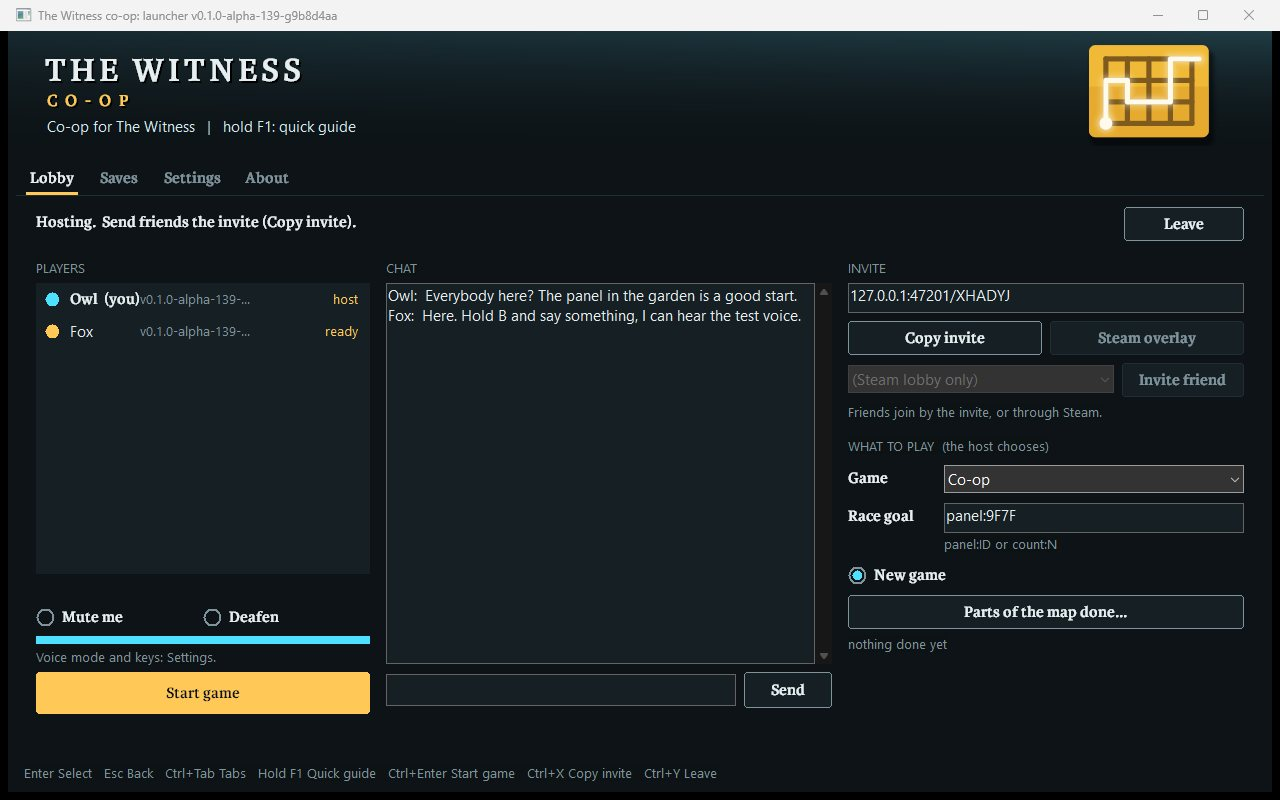
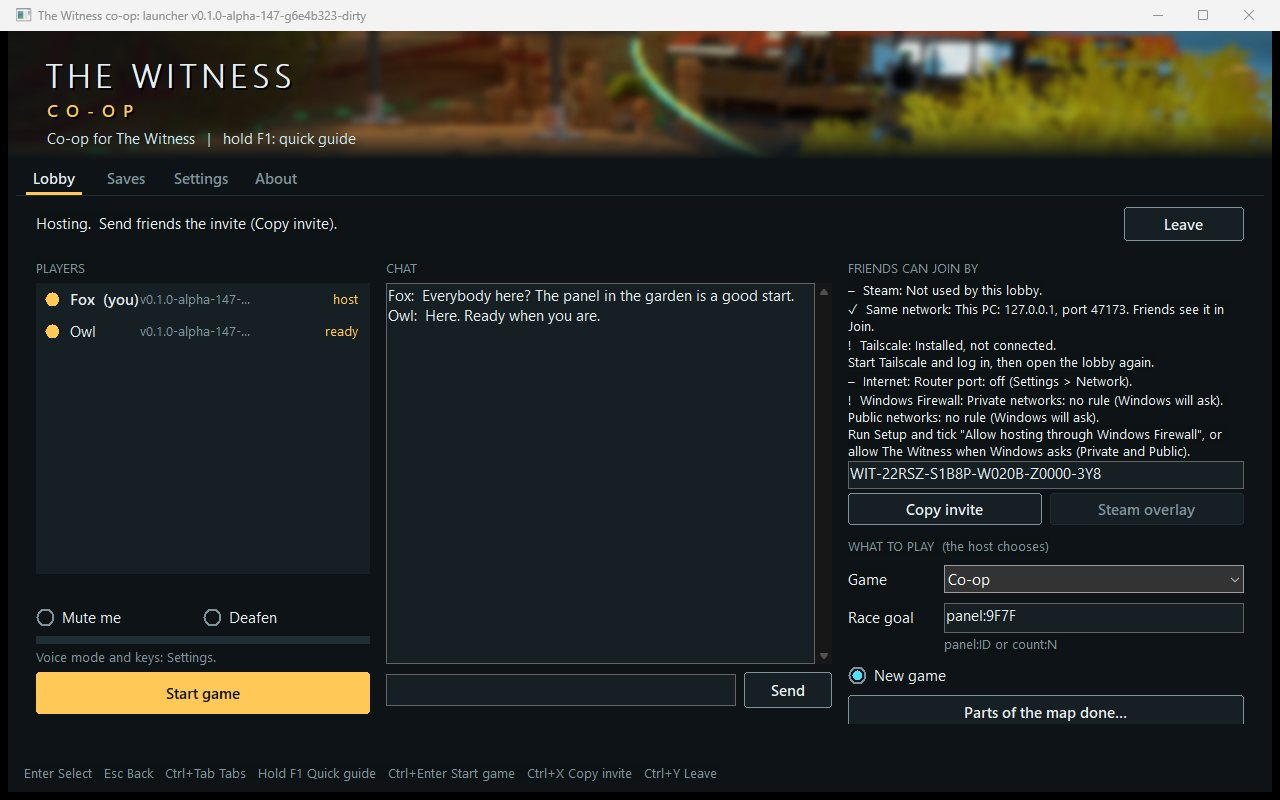
Friends reach this PC at also sets the panel's address and the invite's only route; compact panel rows (mark, result, the fix under a warning); qa.sh join pictures: launcher_join.jpg (new) and launcher_lobby.jpg recaptured with 127.0.0.1

diff --git a/launcher/main.cpp b/launcher/main.cpp
@@ -477,12 +477,14 @@ nf_settings NetSettings();
 // ---- C: hosting. "Friends can join by" (netfind.c's checks), the invite (joinglue.h MakeInvite)
 void HostChecksOpen(unsigned lobbyPort, unsigned gamePort, bool steam) {
     char exe[MAX_PATH] = {}; GetModuleFileNameA(nullptr, exe, MAX_PATH); std::wstring g = g_dir + L"\\witness64_d3d11.exe"; std::string game = U(g);
-    nf_settings s = NetSettings(); nf_host_open(lobbyPort, gamePort, steam ? 1 : 0, g_sess.InviteOnly() ? 1 : 0, &s, exe, game.c_str());
+    nf_settings s = NetSettings(); std::string adv = CfgGet("lobby_advertise"); uint32_t advIp = adv.empty() ? 0 : lw::Session::Resolve(adv);
+    nf_host_open(lobbyPort, gamePort, steam ? 1 : 0, g_sess.InviteOnly() ? 1 : 0, &s, exe, game.c_str(), advIp);
 }
 bool HostInvite(std::string* code, std::string* msg) {
     jg::InviteIn in; in.name = CfgGet("name", "Player"); in.secret = g_sess.Secret(); in.inviteOnly = g_sess.InviteOnly(); lh_addr lan[8]; int nlan = 0, ok = 0;
     if (g_sess.SteamMode()) { in.steamLobby = g_sess.SteamLobbyId(); in.port = NetSettings().port ? NetSettings().port : LJ_DEFAULT_PORT; if (!in.steamLobby) return false; }
-    else { nf_host_routes(lan, 8, &nlan, &in.tailscaleIp, &in.internetIp, &ok); in.lan = lan; in.nlan = nlan; in.internetOk = ok != 0; in.port = g_sess.LobbyPort(); }
+    else { nf_host_routes(lan, 8, &nlan, &in.tailscaleIp, &in.internetIp, &ok); in.lan = lan; in.nlan = nlan; in.internetOk = ok != 0; in.port = g_sess.LobbyPort();
+           std::string adv = CfgGet("lobby_advertise"); if (!adv.empty()) in.advertiseIp = lw::Session::Resolve(adv); }
     return jg::MakeInvite(in, code, msg);
 }
 void HostLobby() {
@@ -648,15 +650,22 @@ void DrawJoinRow(DRAWITEMSTRUCT* d) {      // B5: name, state, players of limit,
     SelectObject(dc, th::Small()); SetTextColor(dc, grey ? th::kMuted : th::kLine); RECT lr = r; lr.left = nr.right + 12; lr.right -= 12; DrawTextW(dc, W(row.line).c_str(), -1, &lr, DT_VCENTER | DT_SINGLELINE | DT_END_ELLIPSIS);
 }
 // "Friends can join by" (C1) and the invite box, while hosting
+int g_fjState[NF_ROWS];      // the panel rows' states as last drawn
+int TextHeight(HWND h, int width) {      // the height a static's text takes at its font, wrapped to width
+    wchar_t t[600] = {}; GetWindowTextW(h, t, 600); if (!t[0]) return 16; HDC dc = GetDC(h); HGDIOBJ old = SelectObject(dc, (HFONT)SendMessageW(h, WM_GETFONT, 0, 0));
+    RECT r = {0, 0, width, 0}; DrawTextW(dc, t, -1, &r, DT_CALCRECT | DT_WORDBREAK | DT_NOPREFIX); SelectObject(dc, old); ReleaseDC(h, dc); return std::max(16, (int)r.bottom);
+}
 void HostUiTick() {
     static ULONGLONG at; static bool laidSteam; if (GetTickCount64() - at < 400) return; at = GetTickCount64();
     bool host = g_sess.Active() && g_sess.IsHost(), steamHost = host && g_sess.SteamMode(); if (steamHost != laidSteam) { laidSteam = steamHost; LayoutAll(); }
-    static const wchar_t* marks[] = {L"...", L"OK", L"!", L"off"};
-    nf_host_row rows[NF_ROWS]; if (host) nf_host_rows(rows);
+    static const wchar_t* marks[] = {L"\x2026", L"\x2713", L"!", L"\x2013"};      // checking, OK, needs a look, off
+    nf_host_row rows[NF_ROWS]; if (host) nf_host_rows(rows); bool relayout = false;
     for (int i = 0; i < NF_ROWS; ++i) {
-        std::wstring t = host ? W(std::string(rows[i].title) + ": ") + marks[rows[i].state & 3] + L"  " + W(rows[i].result) + (rows[i].fix[0] ? L"\n" + W(rows[i].fix) : L"") : std::wstring(i == 0 ? L"Shown while you host." : L"");
-        wchar_t cur[600] = {}; GetWindowTextW(LB(ID_LB_FJ0 + i), cur, 600); if (t != cur) SetWindowTextW(LB(ID_LB_FJ0 + i), t.c_str());
+        int st = host ? rows[i].state : NF_OFF; if (st != g_fjState[i]) g_fjState[i] = st;
+        std::wstring t = host ? std::wstring(marks[rows[i].state & 3]) + L"  " + W(std::string(rows[i].title) + ": " + rows[i].result) + (rows[i].state == NF_WARN && rows[i].fix[0] ? L"\n" + W(rows[i].fix) : L"") : std::wstring(i == 0 ? L"Shown while you host." : L"");
+        wchar_t cur[600] = {}; GetWindowTextW(LB(ID_LB_FJ0 + i), cur, 600); if (t != cur) { SetWindowTextW(LB(ID_LB_FJ0 + i), t.c_str()); relayout = true; }
     }
+    if (relayout) LayoutAll();
     if (host) { std::string code; if (HostInvite(&code, nullptr)) { std::wstring wc = W(code); wchar_t cur[200] = {}; GetWindowTextW(LB(ID_LB_INVITE_SHOW), cur, 200); if (wc != cur) SetWindowTextW(LB(ID_LB_INVITE_SHOW), wc.c_str()); } }
 }
 void CopyInvite(HWND h) {      // C3: "<name> is hosting The Witness. Join: https://<join page>/#WIT-..." (before the checks found a way in: the old address:port/CODE invite)
@@ -868,7 +877,7 @@ void LayoutLobby(int W, int H) {
     PlaceId(ID_LB_READY, c1, H - 48, c1w, 34); PlaceId(ID_LB_START, c1, H - 52, c1w, 42);
     PlaceId(ID_LB_H_CHAT, c2, y0, c2w, 20); PlaceId(ID_LB_LOG, c2, y0 + 24, c2w, H - y0 - 24 - 60); PlaceId(ID_LB_CHAT, c2, H - 50, c2w - 96, 32); PlaceId(ID_LB_SEND, c2 + c2w - 88, H - 52, 88, 36);
     int y = y0; PlaceId(ID_LB_H_INVITE, c3, y, c3w, 20); y += 22;
-    for (int i = 0; i < NF_ROWS; ++i) { PlaceId(ID_LB_FJ0 + i, c3, y, c3w, 36); y += 38; }      // C1: Steam, Same network, Tailscale, Internet, Windows Firewall: the result, then its fix
+    for (int i = 0; i < NF_ROWS; ++i) { int rh = std::min(76, TextHeight(LB(ID_LB_FJ0 + i), c3w)); PlaceId(ID_LB_FJ0 + i, c3, y, c3w, rh); y += rh + 2; }      // C1: Steam, Same network, Tailscale, Internet, Windows Firewall: a mark and the result; under a warning its fix
     PlaceId(ID_LB_INVITE_SHOW, c3, y, c3w, 28); y += 32; PlaceId(ID_LB_COPY, c3, y, (c3w - 8) / 2, 32); PlaceId(ID_LB_STEAM_INVITE, c3 + (c3w + 8) / 2, y, (c3w - 8) / 2, 32); y += 38;
     bool steamHost = g_sess.Active() && g_sess.IsHost() && g_sess.SteamMode(); ShowId(ID_LB_STEAM_FRIENDS, steamHost); ShowId(ID_LB_STEAM_SEND, steamHost); ShowId(ID_LB_H_STEAMHINT, false);
     if (steamHost) { PlaceId(ID_LB_STEAM_FRIENDS, c3, y + 2, c3w - 130, 300); PlaceId(ID_LB_STEAM_SEND, c3 + c3w - 122, y, 122, 32); y += 38; }
@@ -886,7 +895,7 @@ void BuildLobbyPanel(HWND pg) {
     mk(L"BUTTON", L"Ready", BS_AUTOCHECKBOX, ID_LB_READY); mk(L"BUTTON", L"Start game", BS_DEFPUSHBUTTON, ID_LB_START);
     head(L"CHAT", ID_LB_H_CHAT); mk(L"EDIT", L"", WS_BORDER | ES_MULTILINE | ES_READONLY | WS_VSCROLL | ES_AUTOVSCROLL, ID_LB_LOG);
     HWND ce = mk(L"EDIT", L"", WS_BORDER | ES_AUTOHSCROLL, ID_LB_CHAT); SetWindowSubclass(ce, ChatEditProc, 3, 0); mk(L"BUTTON", L"Send", BS_PUSHBUTTON, ID_LB_SEND);
-    head(L"FRIENDS CAN JOIN BY", ID_LB_H_INVITE); for (int i = 0; i < NF_ROWS; ++i) mk(L"STATIC", L"", SS_LEFT | SS_NOPREFIX, ID_LB_FJ0 + i);
+    head(L"FRIENDS CAN JOIN BY", ID_LB_H_INVITE); for (int i = 0; i < NF_ROWS; ++i) SendMessageW(mk(L"STATIC", L"", SS_LEFT | SS_NOPREFIX, ID_LB_FJ0 + i), WM_SETFONT, (WPARAM)th::Small(), TRUE);
     mk(L"EDIT", L"", WS_BORDER | ES_AUTOHSCROLL | ES_READONLY, ID_LB_INVITE_SHOW);
     mk(L"BUTTON", L"Copy invite", BS_PUSHBUTTON, ID_LB_COPY); mk(L"BUTTON", L"Steam overlay", BS_PUSHBUTTON, ID_LB_STEAM_INVITE);
     { HWND fc = mk(L"COMBOBOX", L"", CBS_DROPDOWNLIST | WS_VSCROLL, ID_LB_STEAM_FRIENDS); SendMessageW(fc, CB_ADDSTRING, 0, (LPARAM)L"(Steam lobby only)"); SendMessageW(fc, CB_SETCURSEL, 0, 0); }

diff --git a/tools/win/wjoin.py b/tools/win/wjoin.py
@@ -2,10 +2,11 @@
 # its Join list shows A from the LAN scan within 6 s, and B joins from the row (no code). B leaves and joins again by pasting A's WIT- invite code (every route at once).
 # A's "Friends can join by" says Same network OK (the lobby answered its own LAN-address probe). B remembered A as a recent host. Then A hosts invite only:
 # B's list no longer shows A, and the pasted code still joins (the code carries the secret). Every check reads the launchers' stat files (state, not pictures).
-# usage: wjoin.py <launcher A> <dir A> <launcher B> <dir B> <lobby port> <name A> <rect A> <rect B> [mutant]
+# usage: wjoin.py <launcher A> <dir A> <launcher B> <dir B> <lobby port> <name A> <rect A> <rect B> [mutant | pictures <folder>]
+#   pictures: the windows at 1280x800, and window pictures (PrintWindow: nothing else on the desktop) of B's Join list and A's lobby into <folder> as BMP
 #   mutant: B is a build that ignores every CPS2 answer: A must not be listed (the run must fail its list checks)
 import os, re, subprocess, sys, time
-exeA, dirA, exeB, dirB, lport, nameA, rectA, rectB = sys.argv[1:9]; lport = int(lport); mutant = len(sys.argv) > 9 and sys.argv[9] == 'mutant'
+exeA, dirA, exeB, dirB, lport, nameA, rectA, rectB = sys.argv[1:9]; lport = int(lport); mutant = len(sys.argv) > 9 and sys.argv[9] == 'mutant'; pics = sys.argv[10] if len(sys.argv) > 10 and sys.argv[9] == 'pictures' else ''
 here = os.path.dirname(os.path.abspath(__file__))
 def sp(d): return os.path.join(d, 'launcher_stat.txt')
 def cp(d): return os.path.join(d, 'launcher_cmd.txt')
@@ -48,6 +49,26 @@ def wait(d, pred, secs):
 ok = True
 def check(name, cond, detail=''):
     global ok; ok = ok and bool(cond); print('  %-120s %s  (%s)' % (name, 'ok' if cond else 'FAILED', str(detail)[:260]), flush=True)
+def picture(pid, name):
+    import ctypes, ctypes.wintypes as wt, struct
+    u = ctypes.WinDLL('user32'); g32 = ctypes.WinDLL('gdi32'); found = []
+    u.GetWindowDC.restype = wt.HDC; u.GetWindowDC.argtypes = [wt.HWND]; u.ReleaseDC.argtypes = [wt.HWND, wt.HDC]; u.PrintWindow.argtypes = [wt.HWND, wt.HDC, wt.UINT]; u.RedrawWindow.argtypes = [wt.HWND, ctypes.c_void_p, ctypes.c_void_p, wt.UINT]
+    for f, r, a in (('CreateCompatibleDC', ctypes.c_void_p, [wt.HDC]), ('CreateCompatibleBitmap', ctypes.c_void_p, [wt.HDC, ctypes.c_int, ctypes.c_int]), ('SelectObject', ctypes.c_void_p, [ctypes.c_void_p, ctypes.c_void_p]),
+                    ('GetDIBits', ctypes.c_int, [ctypes.c_void_p, ctypes.c_void_p, wt.UINT, wt.UINT, ctypes.c_void_p, ctypes.c_void_p, wt.UINT]), ('DeleteObject', wt.BOOL, [ctypes.c_void_p]), ('DeleteDC', wt.BOOL, [ctypes.c_void_p])):
+        getattr(g32, f).restype = r; getattr(g32, f).argtypes = a
+    @ctypes.WINFUNCTYPE(wt.BOOL, wt.HWND, wt.LPARAM)
+    def cb(h, l):
+        p = wt.DWORD(); u.GetWindowThreadProcessId(h, ctypes.byref(p)); c = ctypes.create_unicode_buffer(40); u.GetClassNameW(h, c, 40)
+        if p.value == pid and c.value == 'WitnessLauncher' and u.IsWindowVisible(h): found.append(h)
+        return True
+    u.EnumWindows(cb, 0)
+    if not found: print('  no window for the picture', name); return
+    h = found[0]; u.RedrawWindow(h, None, None, 0x1 | 0x80 | 0x100); time.sleep(0.4)
+    r = wt.RECT(); u.GetWindowRect(h, ctypes.byref(r)); w, hh = r.right - r.left, r.bottom - r.top
+    dc = u.GetWindowDC(h); mdc = g32.CreateCompatibleDC(dc); bmp = g32.CreateCompatibleBitmap(dc, w, hh); g32.SelectObject(mdc, bmp); u.PrintWindow(h, mdc, 2)
+    hdr = struct.pack('<IiiHHIIiiII', 40, w, -hh, 1, 32, 0, w * hh * 4, 0, 0, 0, 0); buf = ctypes.create_string_buffer(w * hh * 4); g32.GetDIBits(mdc, bmp, 0, hh, buf, hdr, 0)
+    with open(os.path.join(pics, name + '.bmp'), 'wb') as f: f.write(struct.pack('<2sIHHI', b'BM', 54 + w * hh * 4, 0, 0, 54) + hdr + bytes(buf))
+    g32.DeleteObject(bmp); g32.DeleteDC(mdc); u.ReleaseDC(h, dc); print('  picture', name, w, hh, flush=True)
 def listed(s): return [r for r in s['rows'] if r['name'] == nameA]
 for d in (dirA, dirB):
     for f in (sp(d), cp(d)):
@@ -59,7 +80,7 @@ try:
         p = subprocess.Popen([exe, '--dir', d, '--no-activate', '--stat-file', sp(d), '--cmd-file', cp(d)], startupinfo=si); procs.append(p)
         print('LAUNCHERPID %d' % p.pid, flush=True)
     for p, rect in zip(procs, (rectA, rectB)):
-        time.sleep(1.0); x, y, w, h = rect.split(); subprocess.run([sys.executable, os.path.join(here, 'wplace.py'), str(p.pid), x, y, w, h], capture_output=True, timeout=30)
+        time.sleep(1.0); x, y, w, h = rect.split(); w, h = ('1280', '800') if pics else (w, h); subprocess.run([sys.executable, os.path.join(here, 'wplace.py'), str(p.pid), x, y, w, h], capture_output=True, timeout=30)
     a = wait(dirA, lambda s: True, 20); b = wait(dirB, lambda s: True, 20)
     check('0. both launchers are up', a and b, '')
     cmd(dirA, 'tab 0', 'choice host', 'host %d' % lport)
@@ -72,11 +93,14 @@ try:
     check('2. B chooses Join a friend: its Join list shows A from the LAN within 6 s', b and listed(b) and listed(b)[0]['route'] == 0 and dt <= 6.5, b and (round(dt, 1), b['rows'], b['joinlist']))
     row = b and listed(b) and listed(b)[0]
     check('   the row says in lobby, 1 of 16, LAN, a ping; same version (not greyed)', row and 'in lobby' in row['line'] and '1 of 16' in row['line'] and 'LAN' in row['line'] and not row['mismatch'], row)
+    if pics: time.sleep(1.0); picture(procs[1].pid, 'launcher_join')
     a = stat(dirA); check('   A answered B\'s probes (CPQ2 "WIT ")', a and a.get('probes', 0) >= 1, a and a.get('probes'))
     if not mutant:
         cmd(dirB, 'joinrow ' + nameA)
         b = wait(dirB, lambda s: s['lobby']['joined'] and len(s['members']) == 2, 15); a = wait(dirA, lambda s: len(s['members']) == 2, 10)
         check('3. B joins from the row (no code: the lobby is open to my networks); both lists show two members', b and a and b['lobby'].get('joined') and len(a['members']) == 2, b and (b['lobby'], b['status']))
+        if pics:
+            cmd(dirA, 'chat Everybody here? The panel in the garden is a good start.'); cmd(dirB, 'chat Here. Ready when you are.', 'ready 1'); time.sleep(2.0); picture(procs[0].pid, 'launcher_lobby')
         b = wait(dirB, lambda s: s['joinlist'].get('recents') == '1', 5)
         check('   B remembered A as a recent host (route LAN)', b and b['joinlist'].get('recents') == '1' and b['joinlist'].get('route') == '0', b and b['joinlist'])
         code = a['invite_code']

diff --git a/tools/qa_join.py b/tools/qa_join.py
@@ -4,7 +4,9 @@ A hosts Direct, B's Join list shows A from the LAN within 6 s and B joins from t
 B remembers A as a recent host; an invite-only lobby is not listed and its code still joins. The router port is off in the test folders (upnp=0: the test never asks the
 real router for a mapping; tools/test_coop_host.py runs that code against a fake router) and Tailscale is off (nothing leaves this PC's own networks).
 Mutant: B ignores every CPS2 answer (the launcher build NF_MUT_IGNORE_REPLIES): A is not listed, so the run must fail.
-usage: qa_join.py [clean]  (tools/qa.sh join: leases two slots for their ports and window places)"""
+usage: qa_join.py [clean | pictures]  (tools/qa.sh join: leases two slots for their ports and window places)
+  pictures: the clean run only, with "Friends reach this PC at" 127.0.0.1 in A's folder (no address of this PC in the pictures), and docs/showcase/launcher_join.jpg and
+  launcher_lobby.jpg from window pictures of the two launchers"""
 import os, random, shutil, subprocess, sys
 ROOT = os.path.abspath(os.path.join(os.path.dirname(os.path.abspath(__file__)), '..'))
 PYW = os.environ.get('PYW', 'python.exe')
@@ -13,20 +15,20 @@ RES = os.environ.get('WITNESS_RESOURCES', '')
 RUN = os.path.join(os.environ.get('WITNESS_TMPDIR') or sys.exit('set WITNESS_TMPDIR (a scratch folder on the Windows disk: source local/env.sh)'), OWNER, 'join')
 win = lambda p: subprocess.check_output(['wslpath', '-w', p], text=True).strip()
 
-def folder(name, exe, lport, gport, player):
+def folder(name, exe, lport, gport, player, extra=''):
     d = os.path.join(RUN, name); shutil.rmtree(d, ignore_errors=True); os.makedirs(d)
     open(os.path.join(d, 'witness64_d3d11.exe'), 'wb').close()
-    open(os.path.join(d, 'witness_coop.cfg'), 'w').write('id=1\nlisten=%d\nname=%s\nforce_active=1\nlobby_port=%d\nupnp=0\nfind_tailscale=0\nvoice_mode=off\nvoice_mute_output=1\n' % (gport, player, lport))
+    open(os.path.join(d, 'witness_coop.cfg'), 'w').write('id=1\nlisten=%d\nname=%s\nforce_active=1\nlobby_port=%d\nupnp=0\nfind_tailscale=0\nvoice_mode=off\nvoice_mute_output=1\n%s' % (gport, player, lport, extra))
     open(os.path.join(d, 'witness_launcher_update.cfg'), 'w').write('update_check=0\n')      # no GitHub call from a test
     shutil.copy(exe, os.path.join(d, 'witness_launcher_under_test.exe'))
     return d
 
-def run(exeA, exeB, lport, mutant=False):
-    p1 = int(os.environ.get('WITNESS_PORT1', '47001')); nameA = 'Alpha%04d' % random.randint(0, 9999)
-    dA, dB = folder('A', exeA, lport, p1, nameA), folder('B', exeB, lport, p1 + 1, 'Beta')
+def run(exeA, exeB, lport, mutant=False, pics=''):
+    p1 = int(os.environ.get('WITNESS_PORT1', '47001')); nameA = 'Fox' if pics else 'Alpha%04d' % random.randint(0, 9999)
+    dA, dB = folder('A', exeA, lport, p1, nameA, 'lobby_advertise=127.0.0.1\n' if pics else ''), folder('B', exeB, lport, p1 + 1, 'Owl' if pics else 'Beta')
     slots = (os.environ.get('WITNESS_SLOTS', '0,1').split(',') + ['0', '1'])[:2]
     rects = [(subprocess.run([RES, 'rect', s], capture_output=True, text=True).stdout.strip() if RES else '') or '0 0 1280 760' for s in slots]
-    args = [PYW, '-I', win(os.path.join(ROOT, 'tools', 'win', 'wjoin.py')), win(os.path.join(dA, 'witness_launcher_under_test.exe')), win(dA), win(os.path.join(dB, 'witness_launcher_under_test.exe')), win(dB), str(lport), nameA, rects[0], rects[1]] + (['mutant'] if mutant else [])
+    args = [PYW, '-I', win(os.path.join(ROOT, 'tools', 'win', 'wjoin.py')), win(os.path.join(dA, 'witness_launcher_under_test.exe')), win(dA), win(os.path.join(dB, 'witness_launcher_under_test.exe')), win(dB), str(lport), nameA, rects[0], rects[1]] + (['mutant'] if mutant else ['pictures', win(pics)] if pics else [])
     proc = subprocess.Popen(args, stdout=subprocess.PIPE, stderr=subprocess.STDOUT, text=True); out = []
     for line in proc.stdout:
         print(line, end='', flush=True); out.append(line)
@@ -38,6 +40,15 @@ def main():
     subprocess.run(['make', '-C', os.path.join(ROOT, 'launcher'), 'launcher', 'build/witness_launcher_NF_MUT_IGNORE_REPLIES.exe'], check=True, capture_output=True)
     exe = os.path.join(ROOT, 'launcher', 'build', 'witness_launcher.exe'); mut = os.path.join(ROOT, 'launcher', 'build', 'witness_launcher_NF_MUT_IGNORE_REPLIES.exe')
     lport = int(os.environ.get('WITNESS_PORT1', '47001')) + 160
+    if 'pictures' in sys.argv[1:]:
+        pics = os.path.join(RUN, 'pictures'); shutil.rmtree(pics, ignore_errors=True); os.makedirs(pics)
+        print('=== join: pictures', flush=True); ok = run(exe, exe, lport + 8, pics=pics)
+        dst = os.path.join(ROOT, 'docs', 'showcase')
+        ps = ("Add-Type -AssemblyName System.Drawing; $c = [System.Drawing.Imaging.ImageCodecInfo]::GetImageEncoders() | ? { $_.MimeType -eq 'image/jpeg' }; $p = New-Object System.Drawing.Imaging.EncoderParameters(1); "
+              "$p.Param[0] = New-Object System.Drawing.Imaging.EncoderParameter([System.Drawing.Imaging.Encoder]::Quality, [long]85); Get-ChildItem '%s' -Filter *.bmp | ForEach-Object { $i = [System.Drawing.Image]::FromFile($_.FullName); "
+              "$i.Save('%s\\' + $_.BaseName + '.jpg', $c, $p); $i.Dispose() }; 'done'") % (win(pics), win(dst))
+        print(subprocess.run(['powershell.exe', '-NoProfile', '-Command', ps], capture_output=True, text=True, timeout=120).stdout.strip())
+        return 0 if ok else 1
     print('=== join: clean', flush=True); ok = run(exe, exe, lport); print('clean: %s' % ('PASS' if ok else 'FAIL'), flush=True)
     if not ok or 'clean' in sys.argv[1:]: return 0 if ok else 1
     print('=== join: MUTANT B ignores CPS2 answers', flush=True); caught = not run(exe, mut, lport + 4, mutant=True); print('mutant: %s' % ('caught' if caught else 'NOT CAUGHT'), flush=True)

diff --git a/launcher/netfind.c b/launcher/netfind.c
@@ -280,6 +280,7 @@ enum { RT_OFF, RT_TRYING, RT_MAPPED, RT_FAILED };
 enum { TS_CHECKING, TS_RUNNING, TS_ABSENT, TS_STOPPED };
 static volatile LONG host_gen;
 static struct {
+    uint32_t advertise;
     int open, steam, invite_only, nlan, ts_state, router_state, lan_probe, fw_done, game_mapped;
     unsigned port, game_port;
     uint32_t ts_ip;
@@ -342,7 +343,8 @@ static DWORD WINAPI host_worker(void *param)
     memset(lan, 0, sizeof(lan));
     memset(&router, 0, sizeof(router)); memset(&grouter, 0, sizeof(grouter));
     wsa();
-    n = lan_addresses(lan, NF_ADDRS);
+    if (H.advertise) { lan[0].ip = H.advertise; lan[0].prefix = 32; n = 1; }      /* the address the player set: the only one shown and probed */
+    else n = lan_addresses(lan, NF_ADDRS);
     EnterCriticalSection(&lk);
     if (gen == host_gen) { memcpy(H.lan, lan, sizeof(lan)); H.nlan = n; }
     LeaveCriticalSection(&lk);
@@ -400,7 +402,8 @@ static DWORD WINAPI host_worker(void *param)
     LeaveCriticalSection(&lk);
     return 0;
 }
-void nf_host_open(unsigned lobby_port, unsigned game_port, int steam, int invite_only, const struct nf_settings *s, const char *launcher_exe, const char *game_exe)
+void nf_host_open(unsigned lobby_port, unsigned game_port, int steam, int invite_only, const struct nf_settings *s, const char *launcher_exe, const char *game_exe,
+                  uint32_t advertise_ip)
 {
     lock_make();
     nf_host_close();
@@ -409,7 +412,7 @@ void nf_host_open(unsigned lobby_port, unsigned game_port, int steam, int invite
     H.open = 1; H.steam = steam; H.invite_only = invite_only; H.port = lobby_port; H.game_port = game_port; H.set = *s;
     snprintf(H.launcher_exe, sizeof(H.launcher_exe), "%s", launcher_exe ? launcher_exe : "");
     snprintf(H.game_exe, sizeof(H.game_exe), "%s", game_exe ? game_exe : "");
-    H.ts_state = TS_CHECKING;
+    H.ts_state = TS_CHECKING; H.advertise = advertise_ip;
     H.router_state = !steam && s->upnp ? RT_TRYING : RT_OFF;
     LeaveCriticalSection(&lk);
     H.thread = CreateThread(NULL, 0, host_worker, (void *)(INT_PTR)InterlockedIncrement(&host_gen), 0, NULL);
@@ -428,7 +431,7 @@ void nf_host_close(void)
     H.thread = NULL;
     H.open = 0;
 }
-static const char *fix_firewall = "Setup can add the rule (tick \"Allow hosting through Windows Firewall\"), or allow The Witness when Windows asks, on Private and Public networks.";
+static const char *fix_firewall = "Run Setup and tick \"Allow hosting through Windows Firewall\", or allow The Witness when Windows asks (Private and Public).";
 int nf_host_rows(struct nf_host_row *r)
 {
     char lan[16], ext[16], ts[16];

diff --git a/launcher/joinglue.h b/launcher/joinglue.h
@@ -77,11 +77,16 @@ inline int Answer(cd_rate* rate, const uint8_t* q, size_t n, uint32_t fromIp, ui
 inline bool IsProbe(const uint8_t* q, size_t n) { return lj_is_probe(q, n) != 0; }
 
 // ---- C3: the invite the host copies. Direct: every working route best first, the port, the secret. Steam: the Steam lobby (no routes: a Steam lobby has no UDP listener).
-struct InviteIn { std::string name; uint32_t secret = 0; unsigned port = 0; bool inviteOnly = false; const lh_addr* lan = nullptr; int nlan = 0; uint32_t tailscaleIp = 0, internetIp = 0; bool internetOk = false; uint64_t steamLobby = 0; };
+struct InviteIn { std::string name; uint32_t secret = 0; unsigned port = 0; bool inviteOnly = false; const lh_addr* lan = nullptr; int nlan = 0; uint32_t tailscaleIp = 0, internetIp = 0; bool internetOk = false; uint64_t steamLobby = 0;
+                  uint32_t advertiseIp = 0; };      // advertiseIp: Settings > Network "Friends reach this PC at" (blank: found by itself): the only route then
 inline bool MakeInvite(const InviteIn& in, std::string* code, std::string* message) {
     ci_invite v; memset(&v, 0, sizeof v); char c[CI_CODE_MAX], m[CI_CODE_MAX + 160];
     v.secret = in.secret; v.port = (uint16_t)in.port; v.flags = (uint8_t)(in.inviteOnly ? CI_FLAG_INVITE_ONLY : 0);
     if (in.steamLobby) { v.flags |= CI_FLAG_STEAM; v.steam_lobby = in.steamLobby; }
+    else if (in.advertiseIp) {
+        int wan = lh_wan_class(in.advertiseIp); v.n = 1; lh_ip_put(v.route[0].ip, in.advertiseIp);
+        v.route[0].kind = (uint8_t)(cd_tailscale_ip(in.advertiseIp) ? CI_VPN : wan == LH_WAN_PUBLIC ? CI_INTERNET : CI_LAN);
+    }
     else lh_invite_routes(&v, in.lan, in.nlan, in.tailscaleIp, in.internetIp, in.internetOk ? 1 : 0);
     if ((!v.n && !in.steamLobby) || !ci_encode(&v, LJ_GAME, c, sizeof c)) return false;
     if (!ci_message(in.name.empty() ? "Player" : in.name.c_str(), WC_PRODUCT, WC_JOIN_PAGE, c, m, sizeof m)) return false;

diff --git a/launcher/joinglue_test.cpp b/launcher/joinglue_test.cpp
@@ -43,6 +43,11 @@ int main() {
     std::string scode; check("Steam invite: made without routes", jg::MakeInvite(sin, &scode, nullptr));
     jg::Plan ps = jg::PlanPaste(scode, 47100);
     check("paste a Steam host's code: joins that Steam lobby", ps.action == jg::kSteam && ps.lobby == 109775241234567890ull, ps.said);
+    jg::InviteIn adv = in; adv.advertiseIp = IP(127, 0, 0, 1); std::string acode; jg::MakeInvite(adv, &acode, nullptr); jg::Plan pv = jg::PlanPaste(acode, 47100);
+    check("\"Friends reach this PC at\": that address is the invite's only route", pv.action == jg::kProbeInvite && pv.invite.n == 1 && cd_ip(pv.invite.route[0].ip) == IP(127, 0, 0, 1) && pv.invite.route[0].kind == CI_LAN, pv.said);
+    adv.advertiseIp = IP(100, 70, 1, 2); jg::MakeInvite(adv, &acode, nullptr); pv = jg::PlanPaste(acode, 47100);
+    adv.advertiseIp = IP(203, 0, 113, 9); std::string icode; jg::MakeInvite(adv, &icode, nullptr); jg::Plan pi = jg::PlanPaste(icode, 47100);
+    check("   a Tailscale address goes as Tailscale, a public one as internet", pv.invite.route[0].kind == CI_VPN && pi.invite.route[0].kind == CI_INTERNET);
     jg::InviteIn none; none.name = "Fox"; none.port = 47100;
     check("no route and no Steam lobby: no invite to copy", !jg::MakeInvite(none, nullptr, nullptr));
 

diff --git a/launcher/shell.cpp b/launcher/shell.cpp
@@ -111,7 +111,7 @@ static std::vector<Row> Build() {
     v.push_back(Toggle("cfg:find_tailscale", "Find friends on Tailscale", kNetwork, "1", "when Tailscale is installed: asks your tailnet's online devices"));
     v.push_back(Toggle("cfg:upnp", "Open the router port while hosting", kNetwork, "1", "UPnP or NAT-PMP, removed when the lobby closes"));
     v.push_back(Toggle("cfg:internet_in_invite", "Put my internet address in invites", kNetwork, "1", "only when the router opened the port and the address is really yours"));
-    { Row r = R("cfg:lobby_advertise", "Friends reach this PC at", kNetwork, kText); r.hint = "blank: automatic"; v.push_back(r); }
+    { Row r = R("cfg:lobby_advertise", "Friends reach this PC at", kNetwork, kText); r.hint = "blank: found by itself; an address or name here is the only way in the invite"; v.push_back(r); }
     { Row r = R("cfgmulti:peer", "Direct play without a lobby: number,address,port per line", kNetwork, kPeers); r.hint = "advanced; the lobby fills this in itself"; v.push_back(r); }
     // Launcher
     v.push_back(Toggle("cfg:show_launcher", "Show the launcher at start", kLauncher, "1", "off: Play in Steam starts the game directly; hold Shift while it starts to see the launcher"));

diff --git a/launcher/netfind.h b/launcher/netfind.h
@@ -41,7 +41,8 @@ int nf_invite_probe_result(uint32_t *ip, unsigned *port, int *route);   /* -1 ru
 enum { NF_STEAM, NF_LAN, NF_TAILSCALE, NF_INTERNET, NF_FIREWALL, NF_ROWS };
 enum { NF_CHECKING, NF_OK, NF_WARN, NF_OFF };
 struct nf_host_row { int state; char title[24], result[200], fix[240]; };
-void nf_host_open(unsigned lobby_port, unsigned game_port, int steam, int invite_only, const struct nf_settings *s, const char *launcher_exe, const char *game_exe);
+void nf_host_open(unsigned lobby_port, unsigned game_port, int steam, int invite_only, const struct nf_settings *s, const char *launcher_exe, const char *game_exe,
+                  uint32_t advertise_ip);   /* advertise_ip: "Friends reach this PC at" (0: this PC's own addresses) */
 void nf_host_close(void);                               /* removes the router mappings; the launcher closing calls it too */
 int nf_host_rows(struct nf_host_row *out);              /* NF_ROWS rows */
 /* the routes an invite may carry: LAN addresses (best first), this PC's Tailscale address, the internet address and whether it may go in */
